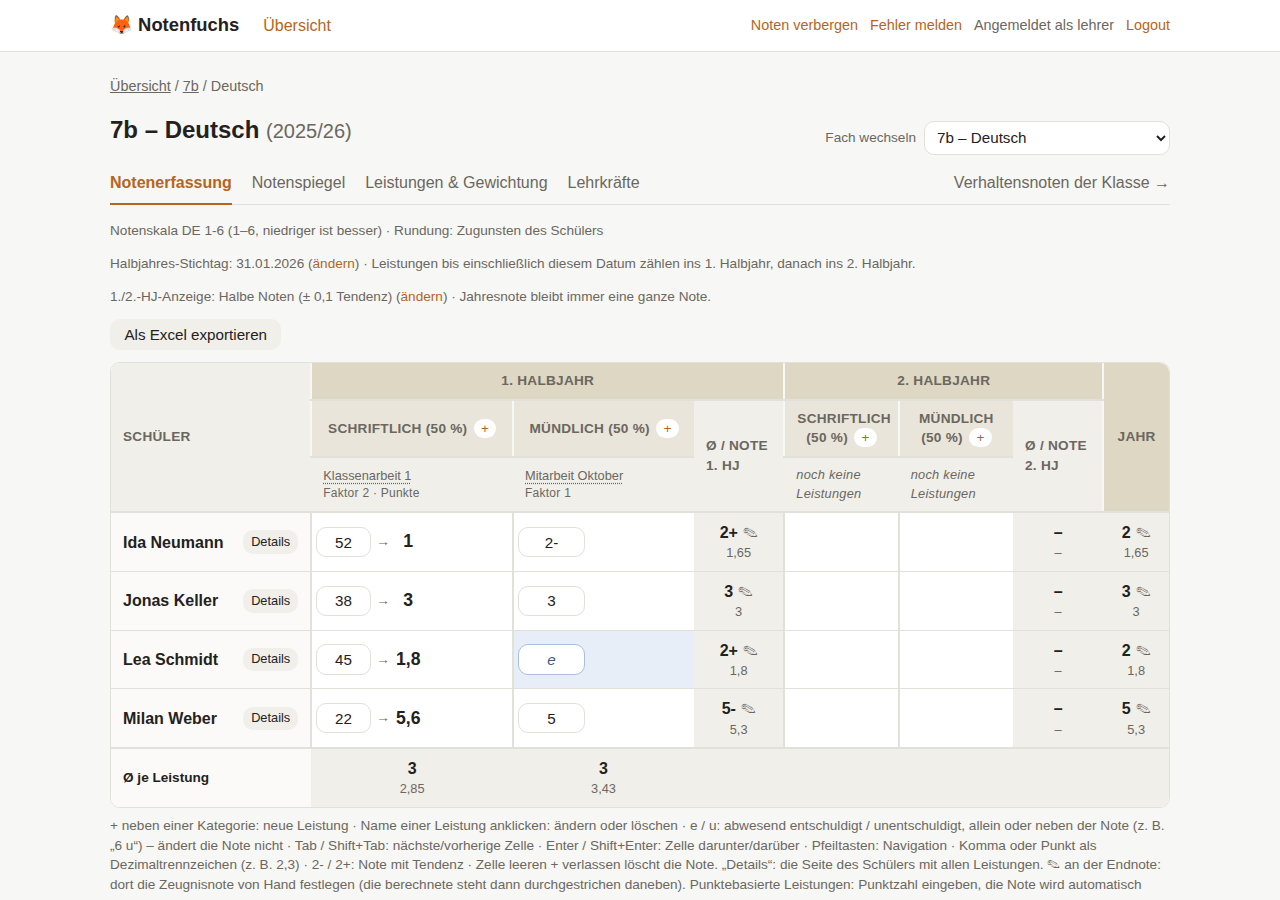
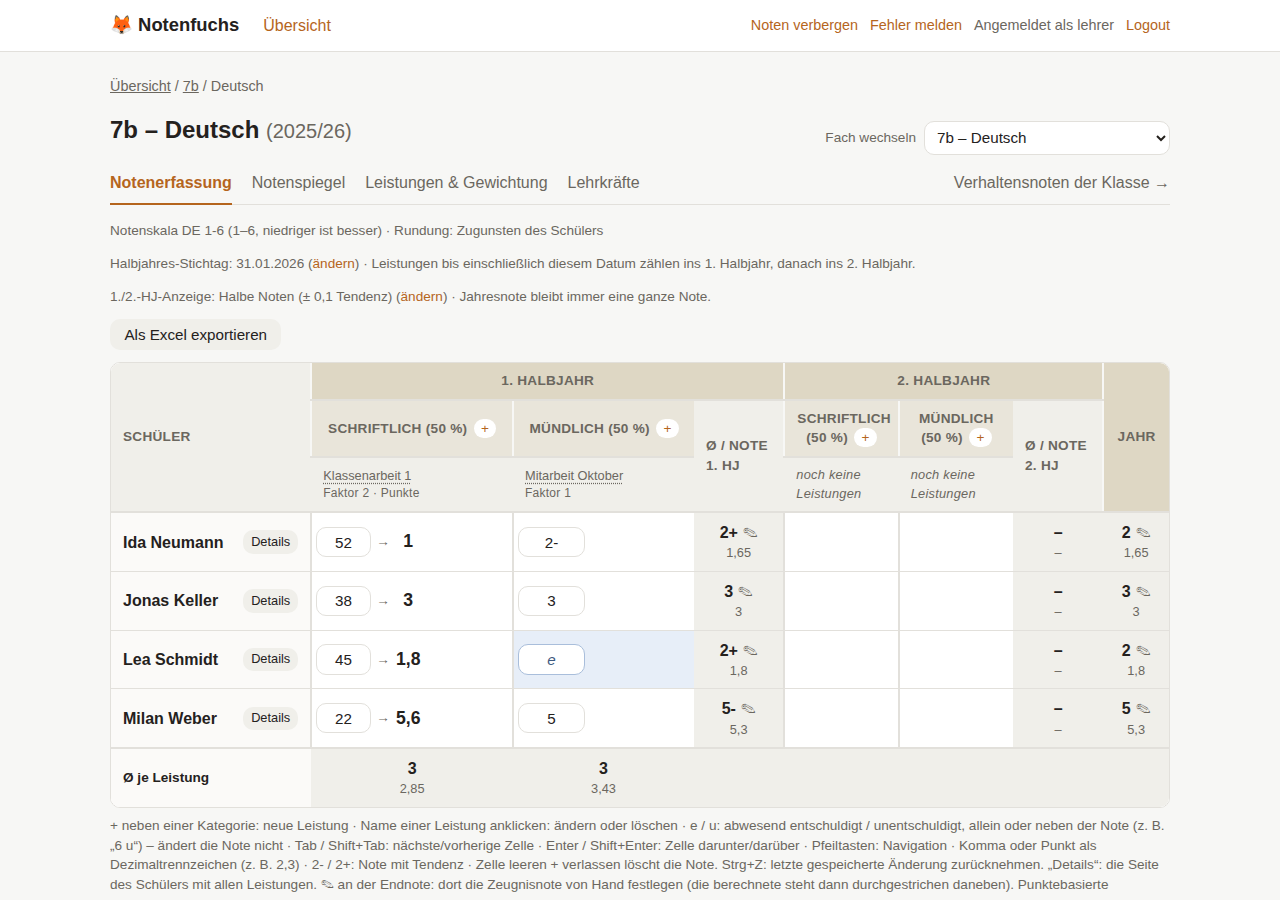
feat(grid): take back saved cell changes with Ctrl+Z
A cell saves as soon as it loses focus, so a grade typed over by mistake was gone. Ctrl+Z now saves the previous value again, step by step for this page's changes, and names the student above the grid because the cell may be out of view.

Changed region(s): [[0.0938, 0.9333, 0.9062, 0.9956]]

diff --git a/src/main/resources/META-INF/resources/static/js/notenfuchs.js b/src/main/resources/META-INF/resources/static/js/notenfuchs.js
@@ -2,7 +2,8 @@
  * Grade grid and Verhaltensnoten grid: spreadsheet-style keys and autosave. Every cell is an
  * <input class="grade-input"> with data-row/data-col (its position) and the ids its save sends.
  * Tab/Shift+Tab move along the rows, Enter/Shift+Enter and the arrow keys move up/down/sideways,
- * Escape restores the value the cell had on focus. Leaving a changed cell saves it.
+ * Escape restores the value the cell had on focus. Leaving a changed cell saves it. Ctrl+Z takes back
+ * the last saved change by saving the old value again; the history lives as long as the page.
  */
 (function () {
     "use strict";
@@ -19,6 +20,12 @@
         // One save at a time, request and page update together: every answer carries averages
         // over a whole column, so an answer handled out of order would show stale averages.
         let saveChain = Promise.resolve();
+        const undoStack = [];
+        const undoNote = document.createElement("p");
+        undoNote.className = "hint undo-note";
+        undoNote.setAttribute("role", "status");
+        undoNote.hidden = true;
+        root.closest(".grid-wrapper").before(undoNote);
 
         function cellAt(row, col) {
             return root.querySelector('.grade-input[data-row="' + row + '"][data-col="' + col + '"]');
@@ -68,15 +75,17 @@
             }
         }
 
-        function saveCell(input) {
+        function saveCell(input, isUndo) {
             const normalized = normalizeValue(input.value);
             // Start from what the page was rendered with, so clearing a pre-filled cell is a change.
             if (input.dataset.lastSaved === undefined) {
                 input.dataset.lastSaved = normalizeValue(input.defaultValue);
+                input.dataset.lastShown = input.defaultValue;
             }
             if (normalized === input.dataset.lastSaved) {
                 return;
             }
+            const before = input.dataset.lastShown;
             setState(input, "saving");
             const body = grid.saveFields(input);
             body.set("value", normalized);
@@ -107,7 +116,13 @@
                             input.value = data.displayValue;
                             input.dataset.lastSaved = normalizeValue(data.displayValue);
                         }
+                        input.dataset.lastShown = input.value;
                         grid.afterSave(root, input, data);
+                        if (isUndo) {
+                            showUndoNote(input);
+                        } else {
+                            undoStack.push({ input: input, value: before });
+                        }
                     })
                     .catch(function (err) {
                         setState(input, "error");
@@ -115,6 +130,35 @@
                     });
             });
         }
+
+        function showUndoNote(input) {
+            const row = input.closest("tr");
+            const name = (row.querySelector(".student-cell-inner > span") || row.querySelector(".student-cell")).textContent;
+            const value = document.createElement("span");
+            value.className = "private";
+            value.textContent = input.value.trim() ? "„" + input.value.trim() + "“" : "leer";
+            undoNote.replaceChildren("Zurückgenommen: " + name + " wieder ", value);
+            undoNote.hidden = false;
+        }
+
+        // Typing in a cell keeps the browser's own Ctrl+Z; so do other fields on the page.
+        document.addEventListener("keydown", function (ev) {
+            if (!(ev.ctrlKey || ev.metaKey) || ev.shiftKey || ev.altKey || ev.key.toLowerCase() !== "z") {
+                return;
+            }
+            const active = document.activeElement;
+            const inGrid = active && active.classList.contains("grade-input") && root.contains(active);
+            if (inGrid ? active.value !== active.dataset.valueOnFocus : active && active !== document.body) {
+                return;
+            }
+            const last = undoStack.pop();
+            if (last) {
+                ev.preventDefault();
+                last.input.value = last.value;
+                last.input.scrollIntoView({ block: "nearest", inline: "nearest" });
+                saveCell(last.input, true);
+            }
+        });
 
         root.addEventListener("focusin", function (ev) {
             const input = ev.target;

diff --git a/src/main/resources/templates/GridPage/gridHalfYear.html b/src/main/resources/templates/GridPage/gridHalfYear.html
@@ -235,7 +235,7 @@
         e / u: abwesend entschuldigt / unentschuldigt, allein oder neben der Note (z. B. „6 u“) – ändert die Note nicht ·
         Tab / Shift+Tab: nächste/vorherige Zelle · Enter / Shift+Enter: Zelle darunter/darüber ·
         Pfeiltasten: Navigation · Komma oder Punkt als Dezimaltrennzeichen (z. B. 2,3) ·{#if subject.gradeScale.tendencyStep} 2- / 2+: Note mit Tendenz ·{/if}
-        Zelle leeren + verlassen löscht die Note. „Details“: die Seite des Schülers mit allen Leistungen. ✎ an der Endnote: dort die Zeugnisnote von Hand festlegen (die berechnete steht dann durchgestrichen daneben). Punktebasierte Leistungen: Punktzahl eingeben,
+        Zelle leeren + verlassen löscht die Note. Strg+Z: letzte gespeicherte Änderung zurücknehmen. „Details“: die Seite des Schülers mit allen Leistungen. ✎ an der Endnote: dort die Zeugnisnote von Hand festlegen (die berechnete steht dann durchgestrichen daneben). Punktebasierte Leistungen: Punktzahl eingeben,
         die Note wird automatisch nach dem Notenschlüssel berechnet und angezeigt (z. B. „65 → 1").
         1. HJ / 2. HJ: Durchschnitt nur aus den Leistungen des jeweiligen Halbjahres · Jahr: wie gewohnt über alle Leistungen.
     </p>

diff --git a/src/main/resources/templates/GridPage/grid.html b/src/main/resources/templates/GridPage/grid.html
@@ -125,7 +125,7 @@
         e / u: abwesend entschuldigt / unentschuldigt, allein oder neben der Note (z. B. „6 u“) – ändert die Note nicht ·
         Tab / Shift+Tab: nächste/vorherige Zelle · Enter / Shift+Enter: Zelle darunter/darüber ·
         Pfeiltasten: Navigation · Komma oder Punkt als Dezimaltrennzeichen (z. B. 2,3) ·{#if subject.gradeScale.tendencyStep} 2- / 2+: Note mit Tendenz ·{/if}
-        Zelle leeren + verlassen löscht die Note. „Details“: die Seite des Schülers mit allen Leistungen. ✎ an der Endnote: dort die Zeugnisnote von Hand festlegen (die berechnete steht dann durchgestrichen daneben). Punktebasierte Leistungen: Punktzahl eingeben,
+        Zelle leeren + verlassen löscht die Note. Strg+Z: letzte gespeicherte Änderung zurücknehmen. „Details“: die Seite des Schülers mit allen Leistungen. ✎ an der Endnote: dort die Zeugnisnote von Hand festlegen (die berechnete steht dann durchgestrichen daneben). Punktebasierte Leistungen: Punktzahl eingeben,
         die Note wird automatisch nach dem Notenschlüssel berechnet und angezeigt (z. B. „65 → 1").
     </p>
 {/if}

diff --git a/src/main/resources/templates/GridPage/behaviorGrid.html b/src/main/resources/templates/GridPage/behaviorGrid.html
@@ -77,7 +77,7 @@
     <p class="grid-legend">
         Tab / Shift+Tab: nächste/vorherige Zelle · Enter / Shift+Enter: Zelle darunter/darüber ·
         Pfeiltasten: Navigation · Komma oder Punkt als Dezimaltrennzeichen (z. B. 2,3) · 2- / 2+: Note mit Tendenz ·
-        Zelle leeren + verlassen löscht die Note. Gelb: Verhaltensnote fehlt noch. Ø ganz rechts: Durchschnitt des Schülers über alle
+        Zelle leeren + verlassen löscht die Note. Strg+Z: letzte gespeicherte Änderung zurücknehmen. Gelb: Verhaltensnote fehlt noch. Ø ganz rechts: Durchschnitt des Schülers über alle
         Fächer, gepunktet unterstrichen bei Nähe zu einer Rundungsgrenze (x,4–x,6). Ø je Fach unten: Durchschnitt
         des Fachs über alle Schüler.
     </p>

diff --git a/src/main/resources/META-INF/resources/static/css/notenfuchs.css b/src/main/resources/META-INF/resources/static/css/notenfuchs.css
@@ -753,3 +753,4 @@ html.privacy-on .privacy-toggle {
     html.privacy-on .private:not(.revealed):not(:focus-within) a.report-grade-edit { color: var(--color-text-muted) !important; }
     html.privacy-on .private:not(.revealed) { cursor: pointer; }
 }
+.undo-note { margin: 0 0 0.5rem; }

diff --git a/src/test/java/de/notenfuchs/e2e/GradeGridE2EIT.java b/src/test/java/de/notenfuchs/e2e/GradeGridE2EIT.java
@@ -102,6 +102,37 @@ class GradeGridE2EIT {
     }
 
     @Test
+    void ctrlZTakesBackSavedChangesOneByOne() {
+        setUpSubjectWithGrid(Long.toString(System.nanoTime()));
+        Locator cell0 = page.locator("input.grade-input[data-row='0'][data-col='0']");
+        Locator cell1 = page.locator("input.grade-input[data-row='0'][data-col='1']");
+        Locator finalGrade = page.locator(".average-final");
+
+        cell0.fill("2");
+        cell0.press("Tab");
+        assertThat(finalGrade).hasText("2");
+        cell0.fill("4");
+        cell0.evaluate("el => el.blur()");
+        assertThat(finalGrade).hasText("4");
+
+        // Focus in another, untouched cell: Ctrl+Z belongs to the grid, not to the field.
+        cell1.focus();
+        page.keyboard().press("Control+z");
+        assertThat(cell0).hasValue("2");
+        assertThat(finalGrade).hasText("2");
+        assertThat(page.locator(".undo-note")).containsText("wieder „2“");
+
+        page.keyboard().press("Control+z");
+        assertThat(cell0).hasValue("");
+        assertThat(finalGrade).hasText("–");
+        assertThat(page.locator(".undo-note")).containsText("wieder leer");
+
+        page.waitForLoadState(LoadState.NETWORKIDLE);
+        page.reload();
+        assertThat(page.locator("input.grade-input[data-row='0'][data-col='0']")).hasValue("");
+    }
+
+    @Test
     void aGradeTheServerWritesDifferentlyIsNotSavedAgainOnTheNextBlur() {
         setUpSubjectWithGrid(Long.toString(System.nanoTime()));
         Locator cell0 = page.locator("input.grade-input[data-row='0'][data-col='0']");

diff --git a/docs/anleitung/02-alltag.md b/docs/anleitung/02-alltag.md
@@ -25,6 +25,10 @@ beim Verlassen von selbst. Komma und Punkt gehen beide (2,3). Eine Note mit Tend
 Sie als 2- oder 2+: Sie zählt als 2,3 oder 1,7 und bleibt als 2- oder 2+ stehen. Eine
 geleerte Zelle löscht die Note.
 
+Vertippt? **Strg+Z** (auf dem Mac **⌘+Z**) nimmt die letzte gespeicherte Änderung zurück, auch
+wenn Sie schon in einer anderen Zelle sind; noch einmal gedrückt die davor. Über der Tabelle steht dann,
+bei wem welcher Wert wiederhergestellt wurde. Nach dem Neuladen der Seite geht das nicht mehr.
+
 War ein Schüler nicht da, tragen Sie **e** (entschuldigt) oder **u** (unentschuldigt) ein,
 allein oder neben der Note, zum Beispiel „6 u“. Der Vermerk ändert die Note nie; eine
 Zelle nur mit Vermerk zählt nicht als fehlende Note. Wer es vergisst: Fährt man mit der Maus

diff --git a/README.md b/README.md
@@ -693,7 +693,8 @@ kein Node-Build-Schritt.
   löschen. Fehlende Noten von Leistungen, deren Datum erreicht ist, werden markiert.
   `e` / `u` in einer Zelle vermerkt „abwesend entschuldigt / unentschuldigt“ – allein
   (zählt dann nicht als fehlend) oder neben der Note (z. B. `6 u`); die Note selbst
-  ändert sich dadurch nie. Noten mit Tendenz lassen sich als `2-` / `2+` eintippen
+  ändert sich dadurch nie. Strg+Z nimmt die letzte gespeicherte Änderung einer Zelle zurück
+  (nur solange die Seite offen ist). Noten mit Tendenz lassen sich als `2-` / `2+` eintippen
   (zählt als 2,3 / 1,7, je nach `tendency_step` der Skala). „Details“ neben einem
   Schülernamen öffnet seine Seite im Fach
   (`/subjects/{id}/grid/students/{studentId}`): alle Leistungen, die Durchschnitte,

diff --git a/docs/ui-concept.md b/docs/ui-concept.md
@@ -149,7 +149,9 @@ Each color means one thing. A new state gets a new token here first.
 The grade and Verhaltensnoten grids are the exception to "rows with actions": every cell is
 an input that saves when you leave it (one save at a time, see `saveChain` in `notenfuchs.js`). The student
 column stays in place when you scroll sideways; averages are in the last columns. Nothing else
-on a grid page competes with the grid.
+on a grid page competes with the grid. Ctrl+Z takes back the last saved cell change (the page's
+history only; reloading ends it) and says above the grid whose value came back, since the cell may
+be out of view. Deletes elsewhere have no undo; they ask first, and backups cover the rest.
 
 ## Privacy mode
 

diff --git a/CLAUDE.md b/CLAUDE.md
@@ -103,6 +103,7 @@ GradeScale (min, max, lowerIsBetter, atRiskFrom, tendencyStep) — shared refere
 | Area | Tests |
 |---|---|
 | Averages, rounding | `GradeServiceTest` |
+| Grid undo (Ctrl+Z) | `GradeGridE2EIT` |
 | Points / Notenschlüssel | `PointsConversionServiceTest`, `GridAssessmentIT`, `GradeGridE2EIT` |
 | Half-year view and display | `HalfYearAssessmentPartitionerTest`, `HalfYearGradeDisplayServiceTest`, `GradeGridHalfYearIT`, `GradeGridHalfYearE2EIT` |
 | Leistung dialog, "offen" highlight | `GridAssessmentIT`, `GradeGridAssessmentE2EIT` |
